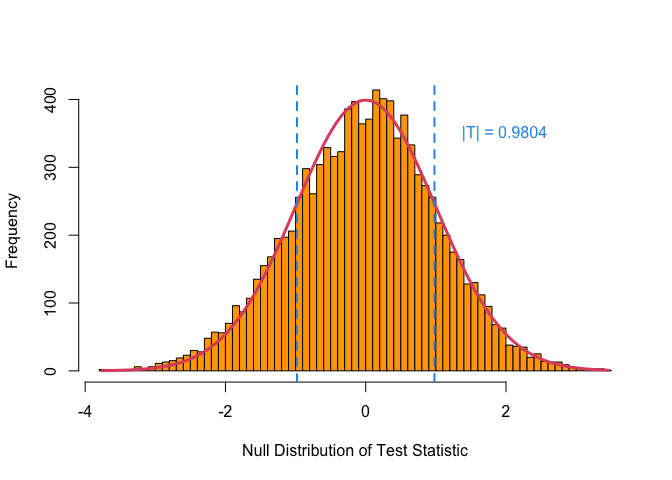
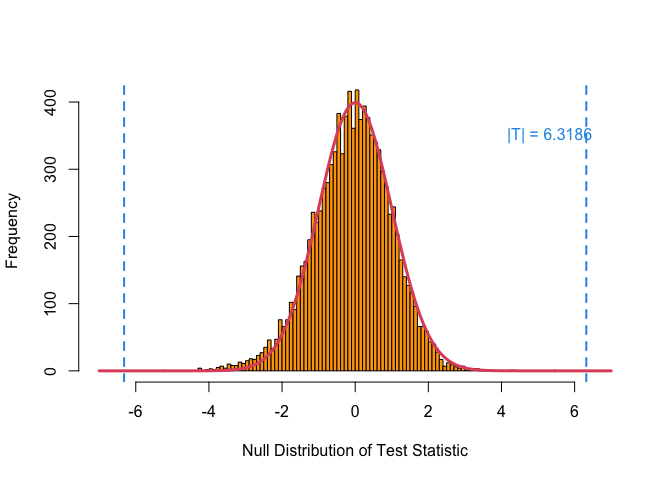
3/25 수업

diff --git a/Lecture/Lecture2---Statistical-Test-for-Genomic-Data.md b/Lecture/Lecture2---Statistical-Test-for-Genomic-Data.md
@@ -21,6 +21,7 @@ Lecture2 : Statistical Test for Genomic Data
 - [Hardy Weinberg Equilibrium](#hardy-weinberg-equilibrium)
 - [Asthma SNP Data](#asthma-snp-data)
 - [Permutation Test](#permutation-test)
+- [Confidence Interval](#confidence-interval-1)
 
 ### Required Packages
 
@@ -357,8 +358,8 @@ qnorm(0.5, mean = 0, sd = 1)
 rnorm(10, mean = 0, sd = 1)
 ```
 
-    ##  [1]  1.6446336 -1.6708713 -0.9310695  1.2524890  1.2716434  0.4835831
-    ##  [7]  0.4161751  1.5212197 -0.2270921  1.2719273
+    ##  [1]  0.5188326 -0.4821449  1.0971736 -1.2533204 -0.3272178 -0.7101282
+    ##  [7]  0.6434584  0.3618996 -1.6408793 -0.3779476
 
 ``` r
 x <- golub[2058, golubFactor=="ALL"]
@@ -1897,7 +1898,7 @@ summary(snp1)
     ##  296  758  514   10
 
 ``` r
-table(snp1)
+table(snp1) # c is major and g is minor
 ```
 
     ## snp1
@@ -1907,8 +1908,8 @@ table(snp1)
 ``` r
 ObsCount <- table(snp1) 
 Nobs <- sum(ObsCount) 
-FreqC <- (2*ObsCount[3] + ObsCount[2])/(2*Nobs)
-ExpCount <- c(Nobs*(1-FreqC)^2, 2*Nobs*FreqC*(1-FreqC), Nobs*FreqC^2) 
+FreqG <- (2*ObsCount[3] + ObsCount[2])/(2*Nobs)
+ExpCount <- c(Nobs*(1-FreqG)^2, 2*Nobs*FreqG*(1-FreqG), Nobs*FreqG^2) 
 rbind(ObsCount, ExpCount)
 ```
 
@@ -1964,7 +1965,7 @@ HWE.chisq(Snp1)
     ##  replicates)
     ## 
     ## data:  tab
-    ## X-squared = 0.31202, df = NA, p-value = 0.5996
+    ## X-squared = 0.31202, df = NA, p-value = 0.6062
 
 ``` r
 country <- asthma$country 
@@ -2009,7 +2010,7 @@ HWE.chisq(Snp1bg)
     ##  replicates)
     ## 
     ## data:  tab
-    ## X-squared = 1.6915, df = NA, p-value = 0.07439
+    ## X-squared = 1.6915, df = NA, p-value = 0.07319
 
 ``` r
 HWE.exact(Snp1bg)
@@ -2250,7 +2251,7 @@ abline(v=abs(tobs), col=4, lty=2, lwd=2)
 text(abs(tobs)-1, 350, col=4, paste("|T| = ", round(abs(tobs), 4), sep=""))
 ```
 
-![](Lecture2---Statistical-Test-for-Genomic-Data_files/figure-gfm/unnamed-chunk-70-1.png)<!-- -->
+![](Lecture2---Statistical-Test-for-Genomic-Data_files/figure-gfm/unnamed-chunk-71-1.png)<!-- -->
 
 ``` r
 gdf5 <- grep("Gdf5", golub.gnames[,2], ignore.case=TRUE) 
@@ -2272,4 +2273,6 @@ abline(v=abs(tobs2), col=4, lty=2, lwd=2)
 text(abs(tobs2)+1, 350, col=4, paste("|T| = ", round(abs(tobs2), 4), sep=""))
 ```
 
-![](Lecture2---Statistical-Test-for-Genomic-Data_files/figure-gfm/unnamed-chunk-71-1.png)<!-- -->
+![](Lecture2---Statistical-Test-for-Genomic-Data_files/figure-gfm/unnamed-chunk-73-1.png)<!-- -->
+
+### Confidence Interval
